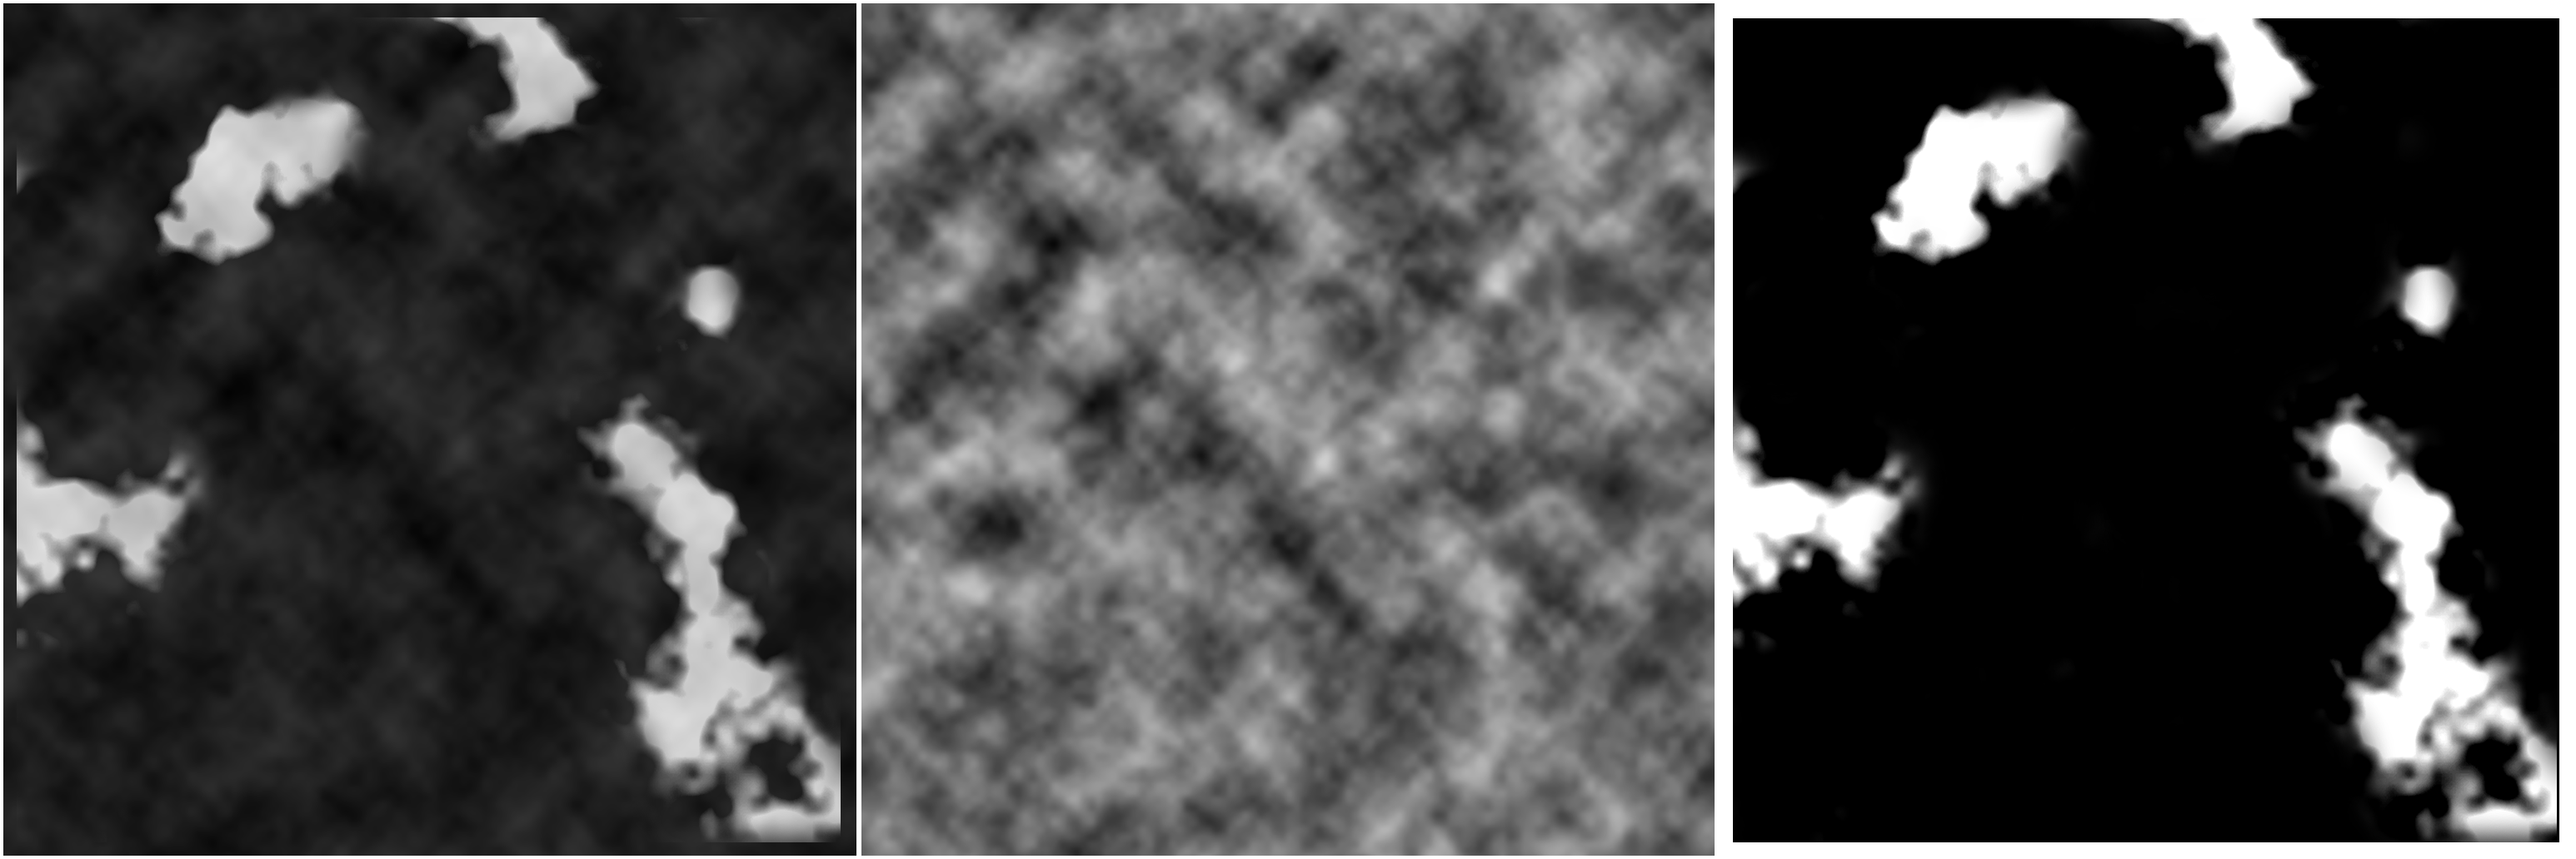
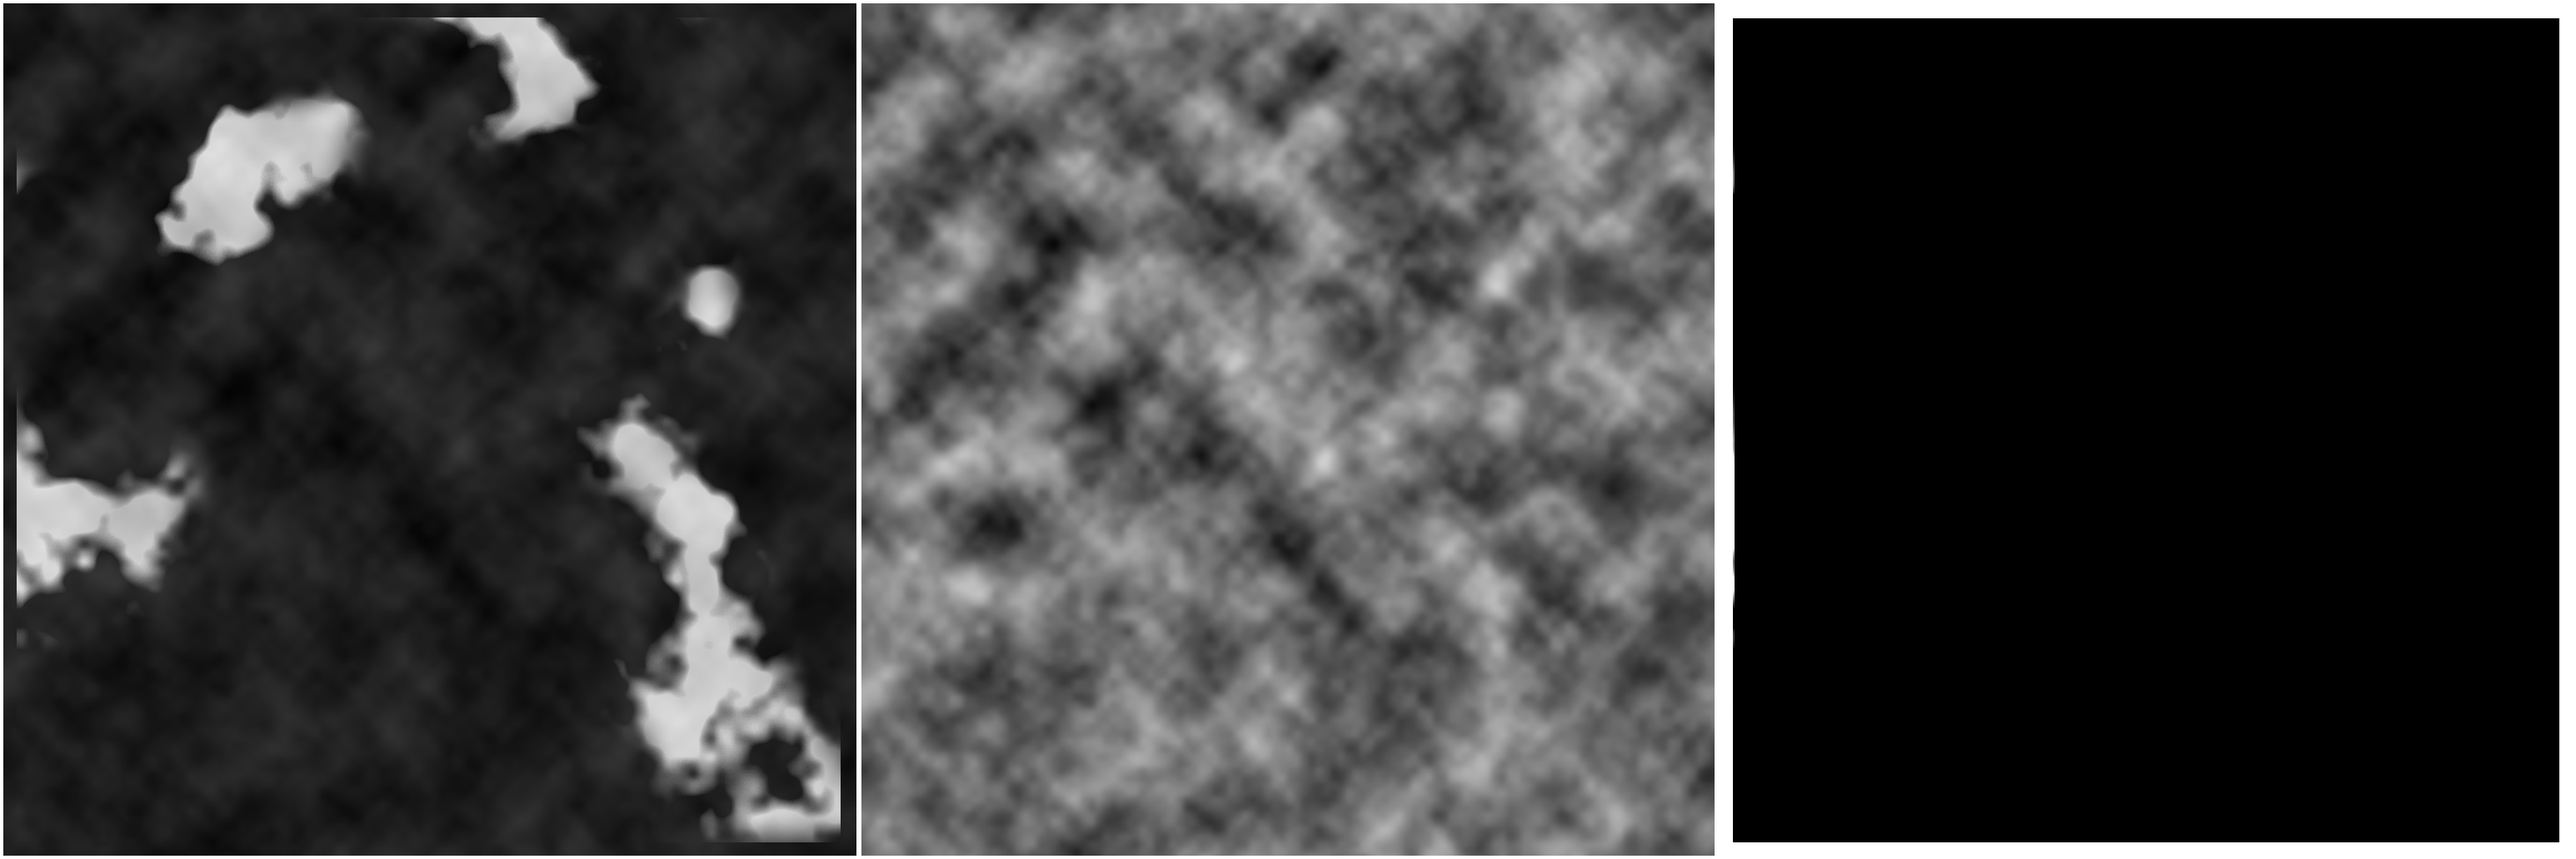
Fixed loading graphics issue (in which graphics weren't updating after loading), and issues with loading new environments. Also added a little test case map for collision avoidance

diff --git a/core/src/com/UKC_AICS/simulation/screen/graphics/Graphics.java b/core/src/com/UKC_AICS/simulation/screen/graphics/Graphics.java
@@ -56,8 +56,8 @@ public class Graphics {
 	ShapeRenderer back = new ShapeRenderer();
 	private HashMap<Byte, float[]> boidColours = new HashMap<Byte, float[]>();
 
-	private AtlasRegion background;
-
+//	private AtlasRegion background;
+	private Pixmap background;
 
 	SpriteCache backgroundCache = new SpriteCache(20000, false);
 	private TileGraphics dynamicTiles;
@@ -135,27 +135,27 @@ public class Graphics {
 
                 }
 
-                if(!RenderState.TILESTATE.equals(RenderState.State.MESH)) {
-                    batch.begin();
-                    Gdx.gl.glEnable(Gdx.gl.GL_BLEND);
-                    if (background == null) {
-                        background = spriteManager.getTileRegion("ground");
-                    }
-                    try {
-                        int iNum = renderWidth / background.originalWidth;
-                        int jNum = renderHeight / background.originalHeight;
-
-                        for (int i = 0; i < iNum; i++) {
-                            for (int j = 0; j < jNum; j++) {
-                                batch.draw(background, i * background.originalWidth, j * background.originalHeight,
-                                        background.originalWidth + 1, background.originalHeight + 1);
-                            }
-                        }
-                    } catch (NullPointerException e) {
-                        System.out.println("Missing GROUND environment layer");
-                    }
-                    batch.end();
-                }
+//                if(!RenderState.TILESTATE.equals(RenderState.State.MESH)) {
+//                    batch.begin();
+//                    Gdx.gl.glEnable(Gdx.gl.GL_BLEND);
+//                    if (background == null) {
+//                        background = spriteManager.getTileRegion("ground");
+//                    }
+//                    try {
+//                        int iNum = renderWidth / background.originalWidth;
+//                        int jNum = renderHeight / background.originalHeight;
+//
+//                        for (int i = 0; i < iNum; i++) {
+//                            for (int j = 0; j < jNum; j++) {
+//                                batch.draw(background, i * background.originalWidth, j * background.originalHeight,
+//                                        background.originalWidth + 1, background.originalHeight + 1);
+//                            }
+//                        }
+//                    } catch (NullPointerException e) {
+//                        System.out.println("Missing GROUND environment layer");
+//                    }
+//                    batch.end();
+//                }
 
 				if(RenderState.TILESTATE.equals(RenderState.State.TILED) && dynamicTiles != null){
                     Gdx.gl.glEnable(Gdx.gl.GL_BLEND);
@@ -331,6 +331,8 @@ public class Graphics {
 		this.tileMap = tileLayers;
 		spriteManager.loadAssets_Tiles(null);
 		dynamicTiles = new TileGraphics(tileLayers, spriteManager);
+		renderWidth = Constants.mapHeight;
+		renderHeight = Constants.mapWidth;
 	}
 
 	/**

diff --git a/core/src/com/UKC_AICS/simulation/screen/graphics/TileGraphics.java b/core/src/com/UKC_AICS/simulation/screen/graphics/TileGraphics.java
@@ -3,6 +3,7 @@ package com.UKC_AICS.simulation.screen.graphics;
 import java.util.Arrays;
 import java.util.HashMap;
 
+import com.UKC_AICS.simulation.Constants;
 import com.badlogic.gdx.Gdx;
 import com.badlogic.gdx.graphics.GL20;
 import com.badlogic.gdx.graphics.g2d.Batch;
@@ -33,9 +34,9 @@ public class TileGraphics extends SpriteCache {
 
 	private final static int MAXCACHE = 100000;
 
-	AtlasRegion lastRegion = null;
-    AtlasSprite lastSprite = null;
-
+	private AtlasRegion lastRegion = null;
+    private AtlasSprite lastSprite = null;
+    private AtlasSprite ground;
 
     /**
      * Initialise this cache
@@ -85,6 +86,7 @@ public class TileGraphics extends SpriteCache {
 	public void createCache(int y, HashMap<String, byte[][]> infoLayers){
 		byte[][] layermap;
 		byte amount;
+		
 		AtlasRegion nextRegion = lastRegion;
         AtlasSprite nextSprite = lastSprite;
 		int xPos = 0;
@@ -105,6 +107,7 @@ public class TileGraphics extends SpriteCache {
 			}
 			loopCheck = x;
 			n = 1;
+			this.add(ground, xPos, y*ground.getWidth(), ground.getWidth()+1, ground.getHeight()+1);
 			for(String layer : infoLayers.keySet())
 			{
 
@@ -202,7 +205,10 @@ public class TileGraphics extends SpriteCache {
 	public void updateTiles(Batch batch, boolean update, HashMap<String, byte[][]> infoLayers){
 		this.setProjectionMatrix(batch.getProjectionMatrix());
 		if(manager.update()){
-		
+			if(ground == null){
+				ground = manager.getGroundTile();
+				ground.setSize(Constants.TILE_SIZE, Constants.TILE_SIZE);
+			}
 			//CACHE METHOD
 			
 //			if(infoLayers.equals(this.infoLayers)) return;

diff --git a/core/src/com/UKC_AICS/simulation/world/LandMap.java b/core/src/com/UKC_AICS/simulation/world/LandMap.java
@@ -35,15 +35,18 @@ public class LandMap {
         size = new Vector3(width / TILE_SIZE, height / TILE_SIZE, 1);
         Random rand = new Random();//for randomly assigning values to tiles
 
-        byte[][] terrain = null; //
+        byte[][] terrain = EnvironmentLoader.getLayer_values("terrain", false);
         boolean loadedLayer = true;
 //        byte[][] border = EnvironmentLoader.getLayer_values("terrain", false);
         if(terrain == null) {
             terrain = new byte[width / TILE_SIZE][height / TILE_SIZE];
-            for (int i = 0; i < terrain.length; i++) {
-                for (int j = 0; j < terrain[i].length; j++) {
-                    terrain[i][j] = 0; //terrain type is land.
-                }
+        }
+        for (int i = 0; i < terrain.length; i++) {
+            for (int j = 0; j < terrain[i].length; j++) {
+            	if(terrain[i][j]>0)
+            		terrain[i][j] = 1;
+            	else
+            		terrain[i][j] = 0; //terrain type is land.
             }
         }
         loadedLayer = true;
@@ -84,6 +87,8 @@ public class LandMap {
 //                }
 //                else
                 if (waterInfo[i][j] > 70) {
+                	System.out.println("water tile " + i + " " + j + " terrain size " + terrain[0].length + " " + terrain.length + 
+                			" size " + width + " " + height);
                     terrain[i][j] = 1; //change terrain type to water.
                     if(grassInfo.length > i )
                         if(grassInfo[i].length > j)

diff --git a/core/src/com/UKC_AICS/simulation/utils/EnvironmentLoader.java b/core/src/com/UKC_AICS/simulation/utils/EnvironmentLoader.java
@@ -107,6 +107,8 @@ public abstract class EnvironmentLoader {
 //		environments.put(name,
 //				new TextureAtlas(defaultEnvAtlas_path));
         try {
+        	environmentLayers_Pixmap.clear();
+        	environmentLayers_atlasRegion.clear();
             FileHandle handle = packFile;
             environmentAtlas = new TextureAtlas(handle);
             handle = packsheetFile;
@@ -151,7 +153,6 @@ public abstract class EnvironmentLoader {
 	 */
 	public static byte[][] getLayer_values(String name, boolean alphaChannel){
 		byte[][] layerVals = null;
-        System.out.println("Getting values for " + name + environmentLayers.containsKey(name));
 		if(environmentLayers_Pixmap.containsKey(name)){
 			Pixmap layer = environmentLayers_Pixmap.get(name);
             int gridWidth = layer.getWidth()/TILE_SIZE;
@@ -201,7 +202,7 @@ public abstract class EnvironmentLoader {
     public static int[] getDimensions(){
 
         if(environmentLayers_Pixmap.size()>0){
-            int size[] = new int[]{0,0};
+            int size[] = new int[2];
             boolean first = true;
             for(Pixmap s : environmentLayers_Pixmap.values()){
                 if(s.getWidth() < size[0] || first);

diff --git a/core/src/com/UKC_AICS/simulation/screen/graphics/SpriteManager.java b/core/src/com/UKC_AICS/simulation/screen/graphics/SpriteManager.java
@@ -78,6 +78,8 @@ public class SpriteManager {
 	private boolean created = true;
 	
 	private static final TextureAtlas blankAtlas = new TextureAtlas();
+	
+	private AtlasSprite groundTile;
 
     /**
      * Initialise some default textures
@@ -188,6 +190,9 @@ public class SpriteManager {
 //					continue;
 //				}
 //				else
+				if(region.name.equalsIgnoreCase("ground")){
+					groundTile = atSprite;
+				}
                 if (region.name.contains("#")){
 					parts = region.name.split("#");
 					if(!environmentTiles_sprites.containsKey(parts[0])){
@@ -367,6 +372,10 @@ public class SpriteManager {
 		if(!environmentTiles_sprites.containsKey(l)) return null;
 		if(!environmentTiles_sprites.get(l).containsKey(amount)) return null;
         return environmentTiles_sprites.get(l).get(amount);
+		
+	}
+	public AtlasSprite getGroundTile(){
+		return groundTile;
 		
 	}
 

diff --git a/core/src/com/UKC_AICS/simulation/managers/SimulationManager.java b/core/src/com/UKC_AICS/simulation/managers/SimulationManager.java
@@ -210,6 +210,7 @@ public class SimulationManager extends Manager {
     //Change this see tutorial
     public void load() {
 //    	hardReset();
+    	parent.resetGraphics();
     	StaXParserLoad load = new StaXParserLoad();
         load.readConfig(eaFile);
       }
@@ -390,10 +391,12 @@ public class SimulationManager extends Manager {
     }
     
     public void hardReset(){
+    	Constants.mapWidth = EnvironmentLoader.getDimensions()[0];
+    	Constants.mapHeight = EnvironmentLoader.getDimensions()[1];
         worldManager = new WorldManager(Constants.mapWidth, Constants.mapHeight);
         boidManager = new BoidManager(this, ea);
-        parent.resetGraphics();
         reset();
+        parent.resetGraphics();
     }
 
     public void loadSaveCall(String command, String identifier, HashMap<String, File> file){

diff --git a/core/src/com/UKC_AICS/simulation/screen/SimulationScreen.java b/core/src/com/UKC_AICS/simulation/screen/SimulationScreen.java
@@ -317,11 +317,11 @@ public class SimulationScreen implements Screen{
     	if(ControlState.STATE == ControlState.State.NAVIGATE){
 	        Entity entity = simulationManager.getBoidAt(screenX,screenY);
             if(entity != null) {
-                if (scissorRect.contains(screenX, screenY)) gui.selectEntity(entity, true);
-                return;
+                if (scissorRect.contains(mousePosition.x, mousePosition.y)) gui.selectEntity(entity, true);
+                	return;
             }
-//            else
-//                gui.selectEntity(null, true);
+            else
+                gui.selectEntity(null, true);
 	        return;
     	}
     	if(ControlState.STATE == ControlState.State.PLACEMENT){

diff --git a/core/src/com/UKC_AICS/simulation/managers/WorldManager.java b/core/src/com/UKC_AICS/simulation/managers/WorldManager.java
@@ -133,6 +133,7 @@ public class WorldManager extends Manager {
         HashMap<String, Byte> layers = new HashMap<String, Byte>();
         int mapX = x/Constants.TILE_SIZE;
         int mapY = y/Constants.TILE_SIZE;
+//        System.out.println("Select tile " + mapX +" " + mapY);
         if ((mapX < 0 || mapX >= tileSize.x) ||
                 (mapY < 0 || mapY >= tileSize.y)) {
             return layers;
